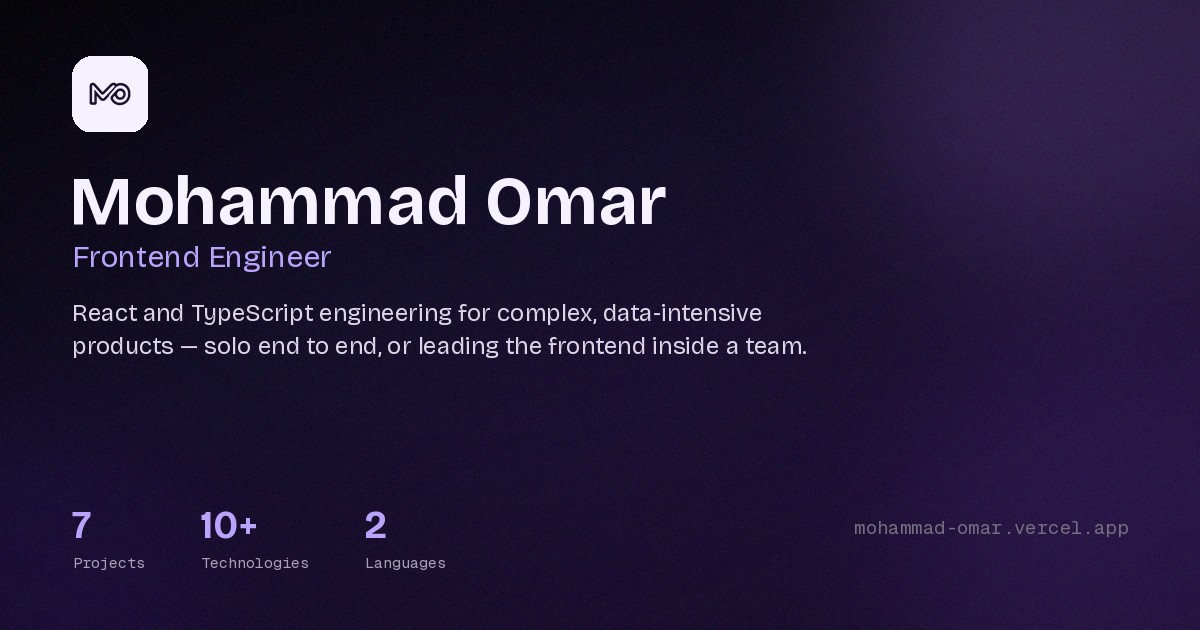
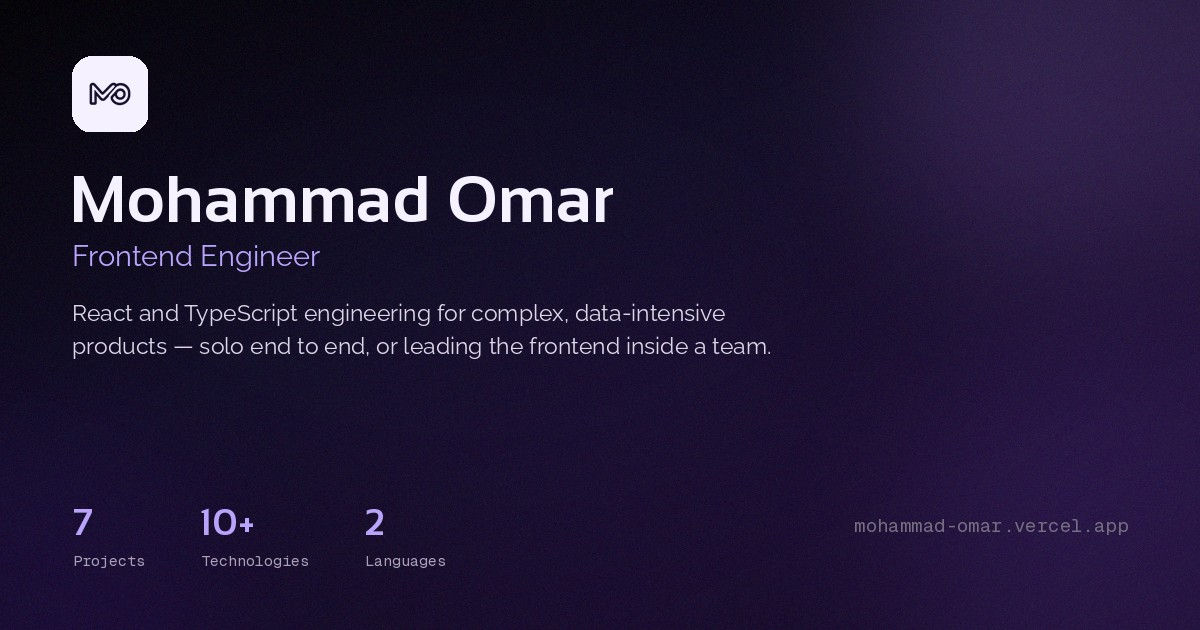
regenerate OG images with Sansation/Raleway to match site fonts

diff --git a/src/app/projects/page.tsx b/src/app/projects/page.tsx
@@ -4,7 +4,7 @@ import { Section } from '@/components/Section';
 import { ProjectsGrid } from '@/components/ProjectsGrid';
 import { OtherProjectsList } from '@/components/OtherProjectsList';
 import { getFeaturedProjects, getOtherProjects } from '@/constants/projects';
-import { SITE_NAME } from '@/constants/siteConfig';
+import { PROJECTS_OG_IMAGE, SITE_NAME } from '@/constants/siteConfig';
 
 const PAGE_DESCRIPTION =
   'Selected engineering projects by Mohammad Omar — React and TypeScript products taken from architecture to production.';
@@ -20,6 +20,7 @@ export const metadata: Metadata = {
     url: '/projects',
     title: `Projects | ${SITE_NAME}`,
     description: PAGE_DESCRIPTION,
+    images: [PROJECTS_OG_IMAGE],
   },
   twitter: {
     card: 'summary_large_image',

diff --git a/src/constants/siteConfig.ts b/src/constants/siteConfig.ts
@@ -6,7 +6,7 @@ export const SITE_DESCRIPTION =
   'Frontend developer building polished, accessible, and performant web applications.';
 
 export const SITE_URL = (
-  process.env.NEXT_PUBLIC_SITE_URL?.trim() || 'https://mohammad-omar.vercel.app'
+  process.env.NEXT_PUBLIC_SITE_URL?.trim() || ''
 ).replace(/\/+$/, '');
 
 export const DEFAULT_OG_IMAGE = {
@@ -14,4 +14,11 @@ export const DEFAULT_OG_IMAGE = {
   width: 1200,
   height: 630,
   alt: `${SITE_NAME} — Frontend Developer`,
+} as const;
+
+export const PROJECTS_OG_IMAGE = {
+  url: '/og-projects.jpg',
+  width: 1200,
+  height: 630,
+  alt: `Projects — ${SITE_NAME}`,
 } as const;
